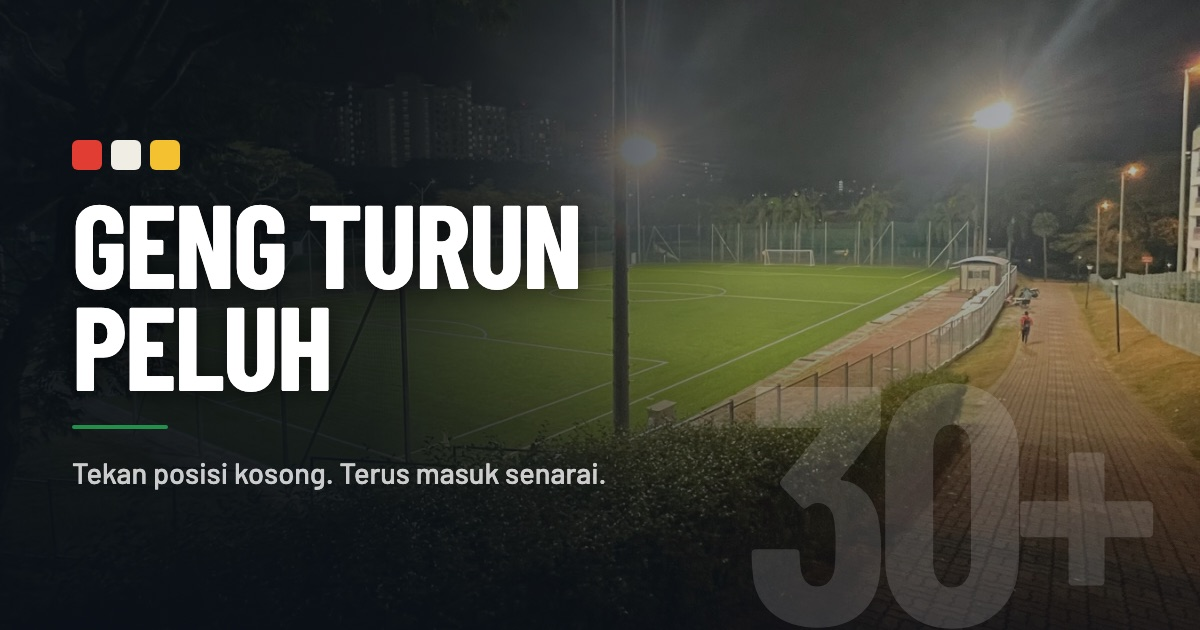
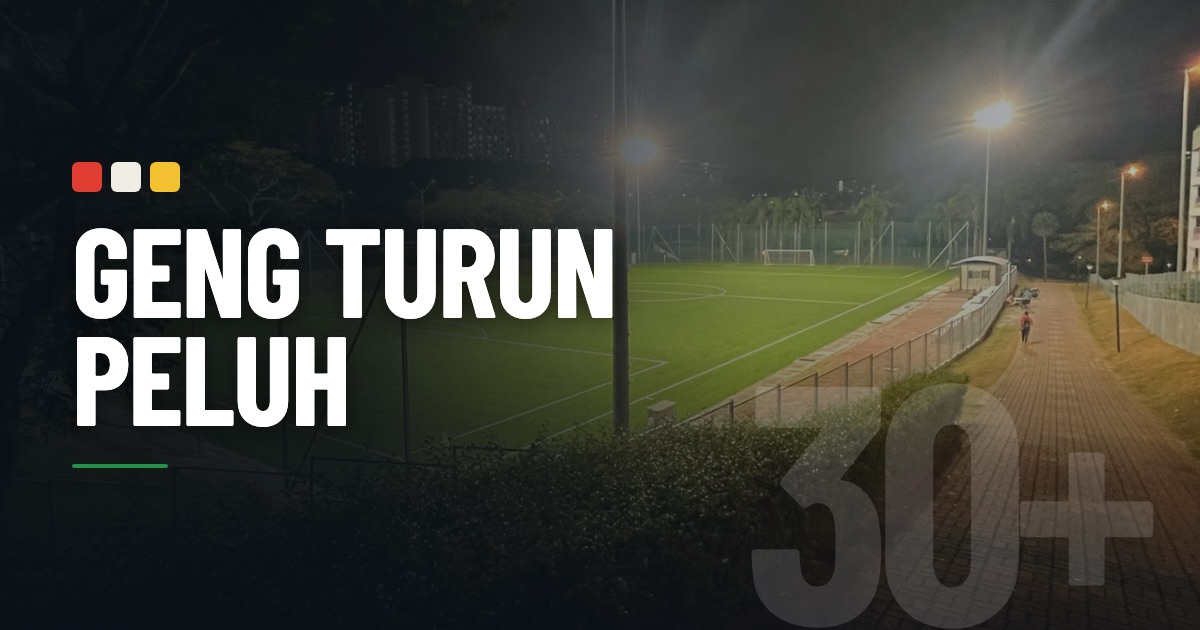
feat: give every session its own share preview, titled and dated
A shared link rendered as a bare URL in WhatsApp. GitHub Pages has no
rewrite rule, so /sepak/s/<id> was answered with the 404.html fallback
and a 404 status, and no chat app builds a preview from a 404.

Two changes fix it. The app now routes on the URL fragment, so the page
actually served is always the site root, a 200 carrying the Open Graph
tags. And scripts/sessionPages.mjs writes a real page per session at
s/<id>/index.html, carrying that session's own title and a description
led by a readable date, then hands the reader into the app. Crawlers
take the tags; people never see the stub.

Links shared before this keep working: 404.html is now a shim that
rewrites the old path to the fragment form.

The copy-for-WhatsApp text ends with the session's path link, which is
the one with a preview page behind it. The deploy workflow also runs
every half hour, because sessions are created in the app rather than in
git and have no page until a build writes one.

The banner drops its subtitle.

Changed region(s): [[0.0617, 0.2111, 0.5242, 0.6937], [0.0617, 0.7238, 0.4933, 0.7841]]

diff --git a/tests/sessionPages.integration.test.ts b/tests/sessionPages.integration.test.ts
@@ -1,0 +1,52 @@
+import { describe, expect, it } from 'vitest'
+// @ts-expect-error -- plain-Node build script, no type declarations
+import { previewDescription, previewTitle, sessionPreviewHtml } from '../scripts/sessionPages.mjs'
+
+const SESSION = {
+  id: 'b8630d98-cc10-47f0-b709-ca2343b25a3b',
+  session_no: 6,
+  title: 'GTP Session',
+  play_date: '2026-09-23',
+  start_time: '20:00:00',
+  venue: 'Percint 8',
+  fee_myr: 25,
+}
+
+const OPTS = { base: '/sepak/', origin: 'https://valehelle.github.io' }
+
+describe('session share previews', () => {
+  it('leads the title with the session number, as the group refers to it', () => {
+    expect(previewTitle(SESSION)).toBe('Sesi 006 GTP Session')
+  })
+
+  it('leads the description with a readable date, no weekday', () => {
+    expect(previewDescription(SESSION)).toBe('23 Sep 2026 · 8:00 PM · Percint 8 · RM 25/pax')
+  })
+
+  it('uses Malay month names and no leading zero on the day', () => {
+    expect(previewDescription({ ...SESSION, play_date: '2026-12-04' })).toContain('4 Dis 2026')
+    expect(previewDescription({ ...SESSION, play_date: '2026-03-01' })).toContain('1 Mac 2026')
+  })
+
+  it('omits the fee when there is nothing to collect', () => {
+    expect(previewDescription({ ...SESSION, fee_myr: null })).toBe('23 Sep 2026 · 8:00 PM · Percint 8')
+    expect(previewDescription({ ...SESSION, fee_myr: 0 })).toBe('23 Sep 2026 · 8:00 PM · Percint 8')
+  })
+
+  it('renders absolute URLs, since a crawler fetches these with no page context', () => {
+    const html = sessionPreviewHtml(SESSION, OPTS)
+    expect(html).toContain('<meta property="og:url" content="https://valehelle.github.io/sepak/s/b8630d98-cc10-47f0-b709-ca2343b25a3b" />')
+    expect(html).toContain('<meta property="og:image" content="https://valehelle.github.io/sepak/og.jpg" />')
+    expect(html).toContain('twitter:card" content="summary_large_image"')
+  })
+
+  it('sends a person straight into the app', () => {
+    expect(sessionPreviewHtml(SESSION, OPTS)).toContain('location.replace("/sepak/#/s/"')
+  })
+
+  it('escapes a title that would otherwise break out of the attribute', () => {
+    const html = sessionPreviewHtml({ ...SESSION, title: 'Ali "The Wall" & Co <b>' }, OPTS)
+    expect(html).toContain('content="Sesi 006 Ali &quot;The Wall&quot; &amp; Co &lt;b&gt;"')
+    expect(html).not.toContain('<b>')
+  })
+})

diff --git a/e2e/booking.spec.ts b/e2e/booking.spec.ts
@@ -12,7 +12,7 @@ test.afterEach(async () => {
 })
 
 test('a player claims, sees, and releases a slot', async ({ page }) => {
-  await page.goto(`s/${sessionId}`)
+  await page.goto(`#/s/${sessionId}`)
   await expect(page.getByText('E2E Geng')).toBeVisible()
   await expect(page.getByText('0/33 penuh')).toBeVisible()
 
@@ -36,8 +36,8 @@ test('a claim appears live in another browser', async ({ browser }) => {
   const pageOne = await one.newPage()
   const pageTwo = await two.newPage()
 
-  await pageOne.goto(`s/${sessionId}`)
-  await pageTwo.goto(`s/${sessionId}`)
+  await pageOne.goto(`#/s/${sessionId}`)
+  await pageTwo.goto(`#/s/${sessionId}`)
 
   await pageOne.getByRole('button', { name: /^ST/ }).first().click()
   await pageOne.getByLabel('Nama').fill('Zulazhar')
@@ -57,8 +57,8 @@ test('two players racing one slot: one wins, the other is told', async ({ browse
   const pageOne = await one.newPage()
   const pageTwo = await two.newPage()
 
-  await pageOne.goto(`s/${sessionId}`)
-  await pageTwo.goto(`s/${sessionId}`)
+  await pageOne.goto(`#/s/${sessionId}`)
+  await pageTwo.goto(`#/s/${sessionId}`)
 
   // Distinct numbers, because these are two different people: one booking
   // per phone per session (0010_one_booking_per_person.sql). Sharing one
@@ -102,7 +102,7 @@ test('a closed session is read-only', async ({ page }) => {
   const { error } = await admin().from('sessions').update({ status: 'closed' }).eq('id', sessionId)
   if (error !== null) throw new Error(`failed to close session: ${error.message}`)
 
-  await page.goto(`s/${sessionId}`)
+  await page.goto(`#/s/${sessionId}`)
   await expect(page.getByText('Sesi ditutup')).toBeVisible()
   await expect(page.getByRole('button', { name: /^GK/ }).first()).toBeDisabled()
 })

diff --git a/index.html b/index.html
@@ -5,7 +5,7 @@
     <meta name="viewport" content="width=device-width, initial-scale=1.0, viewport-fit=cover" />
     <meta name="theme-color" content="#0a1017" />
     <title>Geng Turun Peluh</title>
-    <meta name="description" content="Booking sesi bola Geng Turun Peluh. Tekan posisi kosong, terus masuk senarai." />
+    <meta name="description" content="Booking sesi bola Geng Turun Peluh." />
 
     <!-- Share preview. Absolute URLs: WhatsApp, Telegram and the rest fetch
          these without a page context, so a relative path resolves to
@@ -16,7 +16,7 @@
     <meta property="og:site_name" content="Geng Turun Peluh" />
     <meta property="og:locale" content="ms_MY" />
     <meta property="og:title" content="Geng Turun Peluh 30+" />
-    <meta property="og:description" content="Tekan posisi kosong. Terus masuk senarai." />
+    <meta property="og:description" content="Booking sesi bola Geng Turun Peluh." />
     <meta property="og:url" content="https://valehelle.github.io/sepak/" />
     <meta property="og:image" content="https://valehelle.github.io/sepak/og.jpg" />
     <meta property="og:image:width" content="1200" />
@@ -25,7 +25,7 @@
     <meta property="og:image:alt" content="Padang bola di bawah lampu limpah pada waktu malam" />
     <meta name="twitter:card" content="summary_large_image" />
     <meta name="twitter:title" content="Geng Turun Peluh 30+" />
-    <meta name="twitter:description" content="Tekan posisi kosong. Terus masuk senarai." />
+    <meta name="twitter:description" content="Booking sesi bola Geng Turun Peluh." />
     <meta name="twitter:image" content="https://valehelle.github.io/sepak/og.jpg" />
   </head>
   <body>

diff --git a/e2e/deeplink.spec.ts b/e2e/deeplink.spec.ts
@@ -13,12 +13,15 @@ test.afterEach(async () => {
 
 test('a pasted session link opens directly', async ({ page }) => {
   // This is the WhatsApp case: a cold navigation straight to a nested route.
-  await page.goto(`s/${sessionId}`)
+  // The route lives in the fragment so the shared link is really the site
+  // root, which GitHub Pages answers with a 200 and the Open Graph tags --
+  // a 404 would render as a bare URL in the chat (see src/main.tsx).
+  await page.goto(`#/s/${sessionId}`)
   await expect(page.getByText('E2E Geng')).toBeVisible()
 })
 
 test('refreshing a session page keeps it working', async ({ page }) => {
-  await page.goto(`s/${sessionId}`)
+  await page.goto(`#/s/${sessionId}`)
   await expect(page.getByText('E2E Geng')).toBeVisible()
   await page.reload()
   await expect(page.getByText('E2E Geng')).toBeVisible()
@@ -26,6 +29,6 @@ test('refreshing a session page keeps it working', async ({ page }) => {
 })
 
 test('an unknown session id says so instead of breaking', async ({ page }) => {
-  await page.goto('s/11111111-1111-4111-8111-999999999999')
+  await page.goto('#/s/11111111-1111-4111-8111-999999999999')
   await expect(page.getByText('Sesi tak dijumpai.')).toBeVisible()
 })

diff --git a/src/main.tsx b/src/main.tsx
@@ -1,6 +1,6 @@
 import { StrictMode } from 'react'
 import { createRoot } from 'react-dom/client'
-import { BrowserRouter } from 'react-router'
+import { HashRouter } from 'react-router'
 import App from './App'
 import { ToastProvider } from './components/Toast'
 import './index.css'
@@ -10,11 +10,17 @@ if (!root) throw new Error('#root not found')
 
 createRoot(root).render(
   <StrictMode>
-    {/* basename matches Vite's base so GitHub Pages' subpath resolves */}
-    <BrowserRouter basename={import.meta.env.BASE_URL}>
+    {/* HashRouter, not BrowserRouter, so a shared session link previews.
+        GitHub Pages has no rewrite rule: it answers /sepak/s/<id> with the
+        404.html fallback AND a 404 status, and WhatsApp, Telegram and
+        Facebook all refuse to build a preview from a 404. With the route in
+        the fragment every link is really /sepak/, which Pages serves as a
+        200 carrying the Open Graph tags. Crawlers drop the fragment before
+        fetching, so the tags are found either way. */}
+    <HashRouter>
       <ToastProvider>
         <App />
       </ToastProvider>
-    </BrowserRouter>
+    </HashRouter>
   </StrictMode>,
 )

diff --git a/src/lib/whatsapp.ts b/src/lib/whatsapp.ts
@@ -24,6 +24,12 @@ export type WhatsAppInput = {
   // Optional and defaulting to empty so every existing call site -- and the
   // message for a session with no queue -- stays byte-identical.
   waitlist?: readonly WhatsAppWaitlistEntry[]
+  /** The session's own path URL. This is the link the group should get:
+   *  it is a real page carrying that session's date and venue in its Open
+   *  Graph tags (scripts/sessionPages.mjs), so the chat renders a card for
+   *  this fixture rather than the site-wide one. Optional, so a caller
+   *  without an origin still produces the message unchanged. */
+  shareUrl?: string
 }
 
 type Roster = Map<string, string | null>
@@ -73,6 +79,7 @@ export function buildWhatsAppMessage(input: WhatsAppInput): string {
 
   const teams = TEAM_KEYS.map((team) => teamBlock(team, input.teamNames[team], roster))
   const waitlist = waitlistBlock(input.waitlist ?? [])
+  const link = input.shareUrl === undefined || input.shareUrl === '' ? [] : [input.shareUrl]
 
-  return [header, ...teams, ...(waitlist === null ? [] : [waitlist])].join('\n\n')
+  return [header, ...teams, ...(waitlist === null ? [] : [waitlist]), ...link].join('\n\n')
 }

diff --git a/e2e/waitlist.spec.ts b/e2e/waitlist.spec.ts
@@ -20,7 +20,7 @@ test('auto-fill reaches a second browser over realtime, without a reload', async
   const pageOne = await one.newPage()
   const pageTwo = await two.newPage()
 
-  await pageOne.goto(`s/${sessionId}`)
+  await pageOne.goto(`#/s/${sessionId}`)
   await pageOne.getByRole('button', { name: /^GK/ }).first().click()
   await pageOne.getByLabel('Nama').fill('Hazmi')
   await pageOne.getByLabel('Nombor telefon').fill('012-345 6789')
@@ -28,7 +28,7 @@ test('auto-fill reaches a second browser over realtime, without a reload', async
   await expect(pageOne.getByText('33/33 penuh')).toBeVisible()
 
   // The session is now completely full -- the second browser has to queue.
-  await pageTwo.goto(`s/${sessionId}`)
+  await pageTwo.goto(`#/s/${sessionId}`)
   await expect(pageTwo.getByText('33/33 penuh')).toBeVisible()
   await pageTwo.getByRole('button', { name: 'Sertai senarai tunggu' }).click()
   await pageTwo.getByLabel('Nama').fill('Isaac')

diff --git a/src/routes/SessionPage.tsx b/src/routes/SessionPage.tsx
@@ -96,6 +96,9 @@ export default function SessionPage() {
       teamNames: session.teamNames,
       slots: slots.map(({ team, position, playerName }) => ({ team, position, playerName })),
       waitlist: waitlist.map(({ playerName, positions }) => ({ playerName, positions })),
+      // The path form, not the fragment one in the address bar: only the
+      // path has a page of its own carrying this session's Open Graph tags.
+      shareUrl: `${window.location.origin}${import.meta.env.BASE_URL}s/${session.id}`,
     })
   }, [session, slots, waitlist])
 
@@ -230,7 +233,7 @@ export default function SessionPage() {
     return (
       <div className="space-y-3 p-6">
         <p className="font-sans text-[15px] text-white/70">Sesi tak dijumpai.</p>
-        <Link to="/" className="text-turf-lit underline">Balik ke senarai sesi</Link>
+        <Link to="/" className="text-turf-lit underline">Balik ke laman utama</Link>
       </div>
     )
   }

diff --git a/src/lib/whatsapp.test.ts b/src/lib/whatsapp.test.ts
@@ -128,4 +128,16 @@ describe('buildWhatsAppMessage', () => {
     )
     expect(message.endsWith('\n\nSenarai Tunggu\n1. Faiz (Semua kecuali GK)\n2. Nabil (MC, AM)')).toBe(true)
   })
+
+  describe('shareUrl', () => {
+    it('ends the message with the session link when one is given', () => {
+      const message = buildWhatsAppMessage(input({ shareUrl: 'https://valehelle.github.io/sepak/s/abc' }))
+      expect(message.endsWith('\n\nhttps://valehelle.github.io/sepak/s/abc')).toBe(true)
+    })
+
+    it('changes nothing when no link is given', () => {
+      expect(buildWhatsAppMessage(input())).toBe(EXPECTED)
+      expect(buildWhatsAppMessage(input({ shareUrl: '' }))).toBe(EXPECTED)
+    })
+  })
 })

diff --git a/README.md b/README.md
@@ -96,6 +96,17 @@ device check alone was not enough -- a second browser mints a fresh token --
 so the number is the real guard. Duplicate names stay allowed, since two
 players really are sometimes both called Amir.
 
+Links are shared as `…/sepak/s/<id>`, a real page written at build time by
+`scripts/sessionPages.mjs` carrying that session's own Open Graph title and
+a description led by the date. WhatsApp and the rest never run the app's
+JavaScript, so a single-page app otherwise has exactly one preview for every
+session. The page hands a person straight to the app, which routes on the
+URL fragment: GitHub Pages answers an unknown path with a 404 status, and a
+404 renders as a bare link in a chat, so the app's own routes live after a
+`#` where the served page is always the site root. A session created since
+the last build has no page yet and falls back to the site-wide card; the
+deploy workflow rebuilds every half hour to close that gap.
+
 The index page lists nothing. Sessions are reached by their own link, shared
 in the group chat; organisers see the full list on `/admin`. Note this is
 about the page, not the data: `sepak.sessions` is still world-readable
